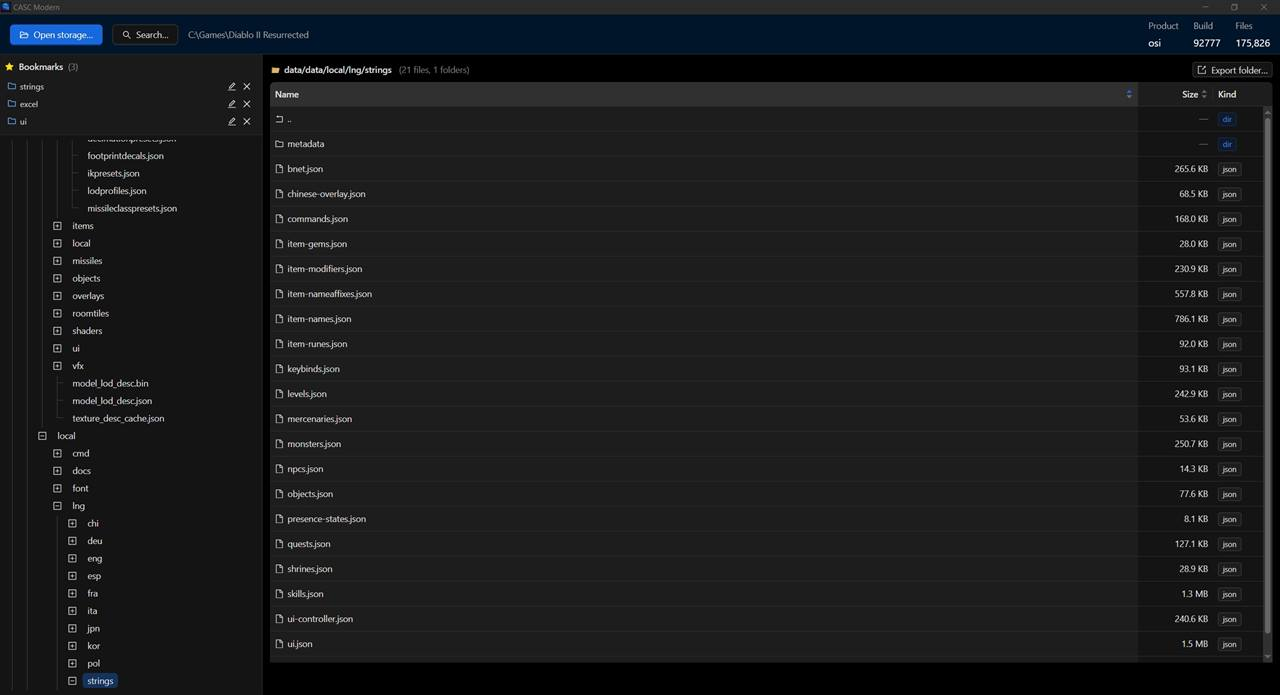
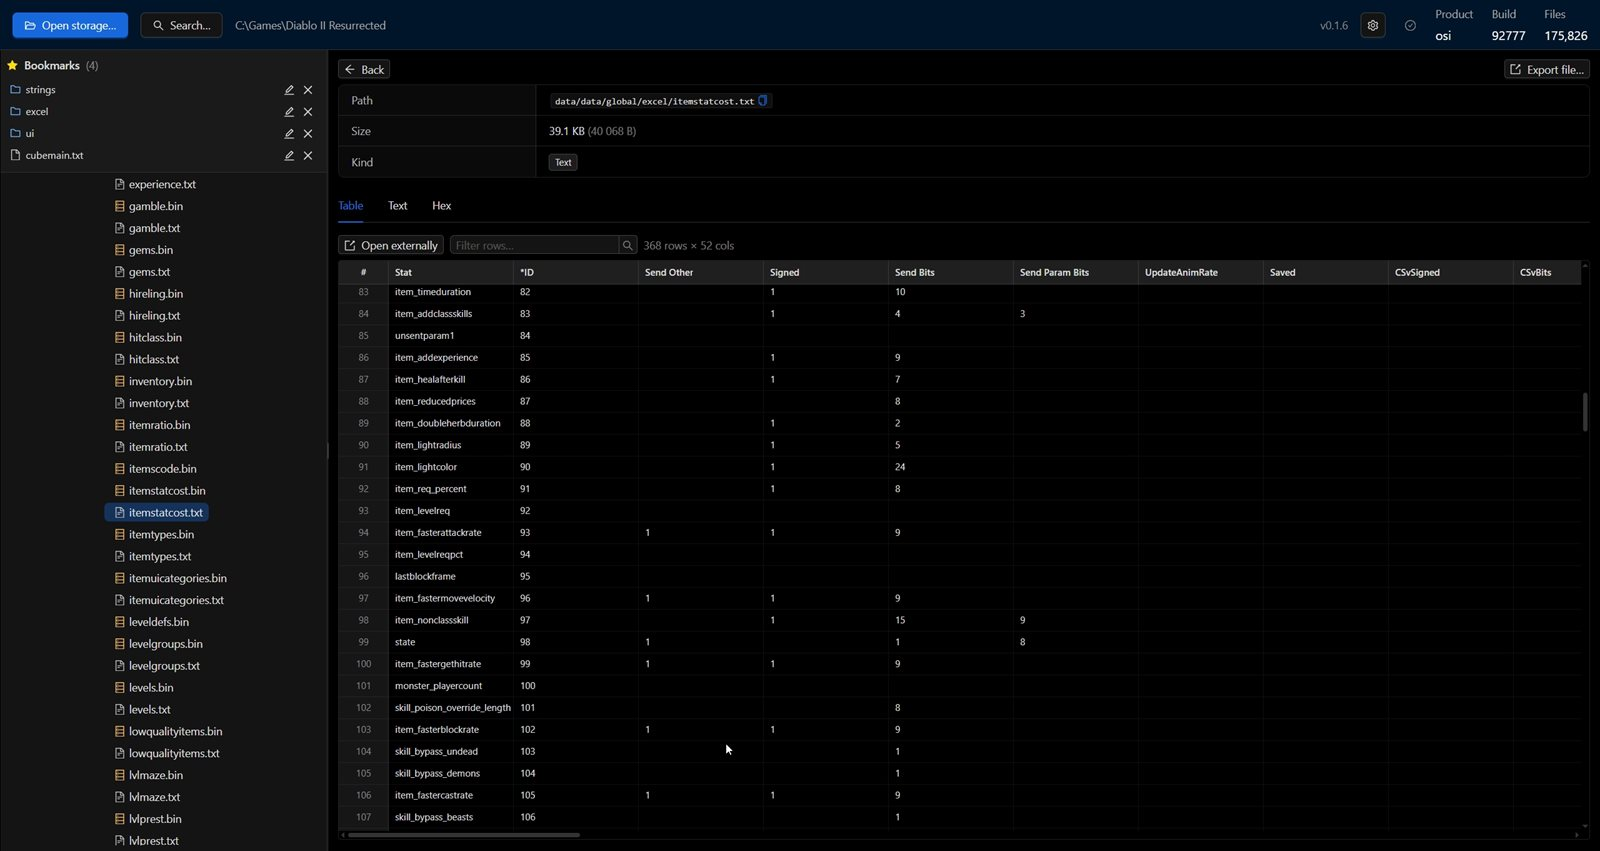
docs: refresh README for new viewers; recompress screenshots
Document the DC6 / image / table / media viewers, thumbnails, settings, and the downloaded-only search filter; drop DC6 from the not-decoded list. Recompress the three screenshots to 1600px wide (~1.7 MB -> ~0.45 MB total).

diff --git a/README.md b/README.md
@@ -16,42 +16,55 @@ interface, dark theme, and additional features. Uses
 [CascLib](https://github.com/ladislav-zezula/CascLib) as the underlying
 engine, wrapped in a Tauri 2 frontend.
 
-A quick but important note: the project was done mostly personally for me in Claude Code with zero knowledge in Rust (only using Rust skills for Claude), but with a wish to have the same instrument as CascView, but with a dark theme (that was the main reason :D), a search through files and a bookmarks tab.
+A quick but important note: the project was done mostly personally for me in Claude Code with zero knowledge in Rust (only using Rust skills for Claude), but with a wish to have the same instrument as CascView, but with a dark theme (that was the main reason :D), a comfortable interface and a bookmarks tab.
 Hopefully it would be useful for you as it was for me. If you would like to improve the project - you are welcome to create PRs or issues, just don't be too harsh please.
 
 ## Screenshots
 
-![Directory view in a bookmarked folder](docs/screenshots/directory-view.jpg)
+![Table viewer for D2R's Excel-style .txt data — sortable and filterable](docs/screenshots/directory-view.jpg)
 
-![Sprite viewer with frame slider for an animated atlas](docs/screenshots/sprite-viewer.jpg)
+![Sprite viewer with the frame grid open, and decoded thumbnails in the tree](docs/screenshots/sprite-viewer.jpg)
 
-![Search drawer with by-name results](docs/screenshots/search.jpg)
+![Search by file name with a downloaded-only filter, beside the inline media player](docs/screenshots/search.jpg)
 
 ## Overview
 
 CASC Modern reads any local CASC storage that CascLib can open. The current
-build adds a few things tailored to D2R: a viewer for `.sprite` (SpA1)
-files, batch export of sprites to PNG, syntax highlighting for JSON and
-text formats used by D2R Toolbox (`.model`, `.skeleton`, `.animations`,
-etc.), and full-text search over the indexed content.
-
-
+build adds a lot tailored to D2R: decoders for `.sprite` (SpA1) and classic
+`.dc6` graphics (with palette selection and per-frame PNG export), an image
+viewer for `.tga`/`.bmp`/`.png`/`.jpg`, a sortable table viewer for the
+Excel-style `.txt` data files, an inline player for `.flac` audio and `.webm`
+video, syntax highlighting for the JSON and text formats used by D2R Toolbox
+(`.model`, `.skeleton`, `.animations`, etc.), batch export to PNG, and
+full-text search over the indexed content.
 
 ## Features
 
-- Tree and table browser of the storage with lazy-loaded folders.
+- Tree and table browser of the storage with lazy-loaded folders, both
+  virtualized so 175k-file storages stay smooth. Optional decoded thumbnails
+  for image-like files in the tree and the directory table.
 - Viewers selected per file kind:
+  - `.sprite` (SpA1) — decoded to RGBA8, with zoom, a frame grid, and a
+    High/Low quality toggle for files that ship a `.lowend` variant.
+  - `.dc6` — classic indexed graphics, with a palette picker, frame
+    stepping, and "Export as PNG".
+  - `.tga`, `.bmp`, `.png`, `.jpg` — image viewer with zoom and fit.
+  - Excel-style `.txt`/`.tsv` data — a sortable, filterable table with
+    resizable, content-auto-sized columns.
+  - `.flac`, `.webm`, and other browser-playable media — an inline player.
   - JSON, HTML, JS, CSS, Python, plain text — CodeMirror with syntax
     highlighting, fold gutter, and `Ctrl+F` search within the file.
-  - `.sprite` (SpA1) — decoded to RGBA8, displayed with zoom and a frame
-    slider for animated atlases.
   - Anything else — hex viewer.
 - Search by file name (substring or regex) and by file content (with a
-  glob filter and per-file size cap). Both stream results.
+  glob filter and per-file size cap), with an option to skip files that
+  aren't downloaded locally. Both stream results.
 - Export of single files or whole directories, preserving the storage
-  layout. Sprite files can be exported as PNG; animated sprites split into
-  one PNG per frame.
+  layout. Sprite and DC6 files can be exported as PNG; animated ones split
+  into one PNG per frame.
 - Bookmarks for paths you visit often, persisted across sessions.
+- Settings: an importable format-icon theme, toggles for thumbnails and for
+  hiding other-locale or low-quality (`.lowend`) variants, plus a Performance
+  tab for the inline-JSON size limit and table overscan.
 - Auto-update on installed builds: checks GitHub Releases, downloads and
   installs a signed MSI, then relaunches. Portable builds show a manual
   download link instead.
@@ -61,18 +74,23 @@ etc.), and full-text search over the indexed content.
 Every file in the storage is readable as bytes; the table below lists the
 extensions that get a viewer beyond hex.
 
-| Extension                                                                                          | Viewer                                |
-| -------------------------------------------------------------------------------------------------- | ------------------------------------- |
-| `.json`, `.model`, `.skeleton`, `.animations`, `.particles`, `.physics`, `.cloth`, `.timelines`    | JSON with pretty-printing             |
-| `.html`, `.js`, `.css`, `.py`                                                                      | Syntax highlight for the language     |
-| `.txt`, `.frontend`, `.params`, `.fltr`, `.bat`, `.h`, `.log`, `.srt`                              | Plain text                            |
-| `.sprite`                                                                                          | SpA1 decoder, RGBA8 atlas + frames    |
-| anything else                                                                                      | Hex                                   |
+| Extension                                                                                       | Viewer                                 |
+| ----------------------------------------------------------------------------------------------- | -------------------------------------- |
+| `.sprite`                                                                                       | SpA1 decoder — RGBA8 atlas + frames    |
+| `.dc6`                                                                                          | Classic indexed graphics + palette     |
+| `.tga`, `.bmp`, `.png`, `.jpg`                                                                  | Image viewer                           |
+| `.txt`, `.tsv` (tab-separated)                                                                  | Sortable table                         |
+| `.flac`, `.webm`, `.wav`, `.mp3`, `.ogg`, `.mp4`, …                                             | Audio/video player                     |
+| `.json`, `.model`, `.skeleton`, `.animations`, `.particles`, `.physics`, `.cloth`, `.timelines` | JSON with pretty-printing              |
+| `.html`, `.js`, `.css`, `.py`, and other text                                                   | CodeMirror — syntax highlight + search |
+| anything else                                                                                   | Hex                                    |
 
-Formats not yet decoded but present in D2R: `.dcc`, `.dc6`, `.dt1` (legacy
-D2 sprites), `.texture` and `.dds` (HD textures), `.flac` (audio), `.tbl`
-(string tables), `.cof` (animation defs). These currently open as hex; PRs
-adding decoders are welcome.
+The JSON/text/table viewers gate on a content sniff, so a binary file with a
+text-ish extension (e.g. a binary `.particles`) still opens as hex.
+
+Formats still shown as hex (PRs adding decoders welcome): `.dcc`, `.dt1`
+(legacy D2 sprites), `.texture` and `.dds` (HD textures), `.tbl` (string
+tables), `.cof` (animation defs).
 
 ## Install
 
@@ -173,6 +191,8 @@ registered in `src/components/viewers/registry.ts`.
   reference implementation for browsing CASC storages.
 - **Daedrohth** for [D2RSpriteConverter](https://github.com/Daedrohth/D2RSpriteConverter),
   which demonstrated that SpA1 is decodable.
+- The [OpenDiablo2](https://github.com/OpenDiablo2) project, whose DC6 decoder
+  was a reference for the `.dc6` format.
 - The [Tauri](https://tauri.app), [React](https://react.dev),
   [Ant Design](https://ant.design), and [CodeMirror](https://codemirror.net)
   projects.